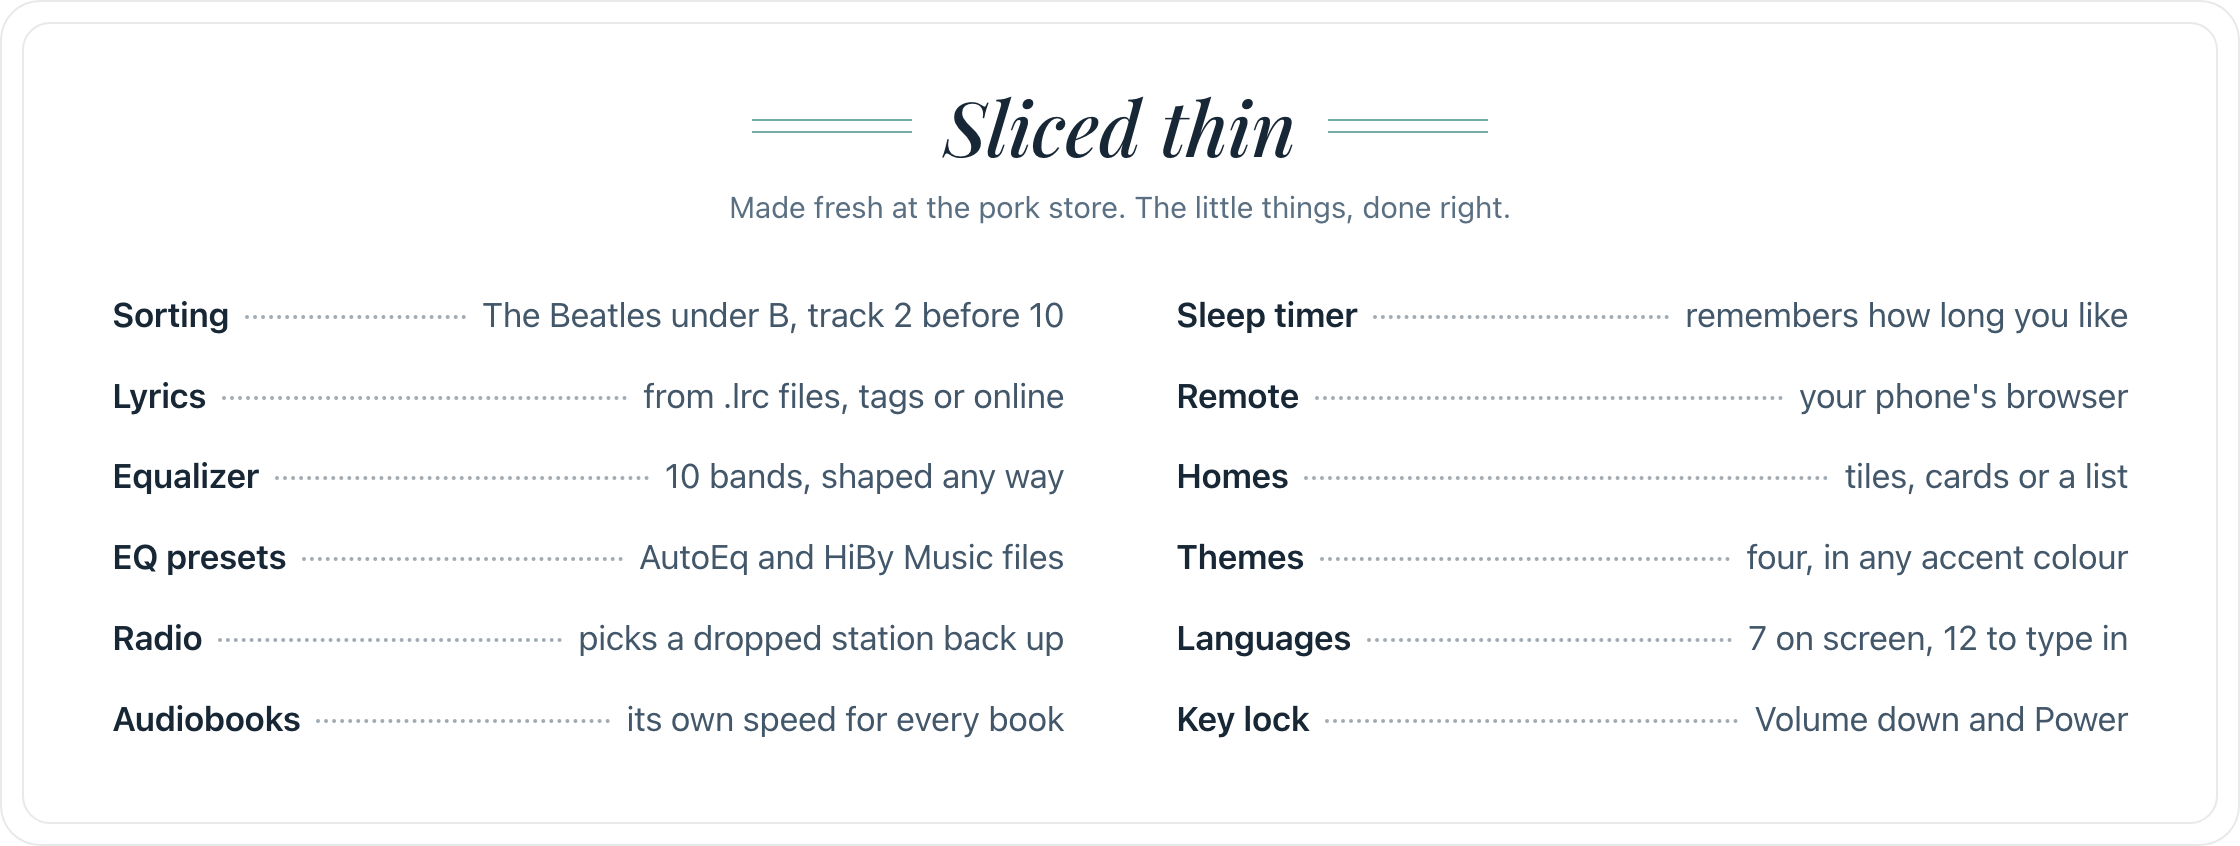
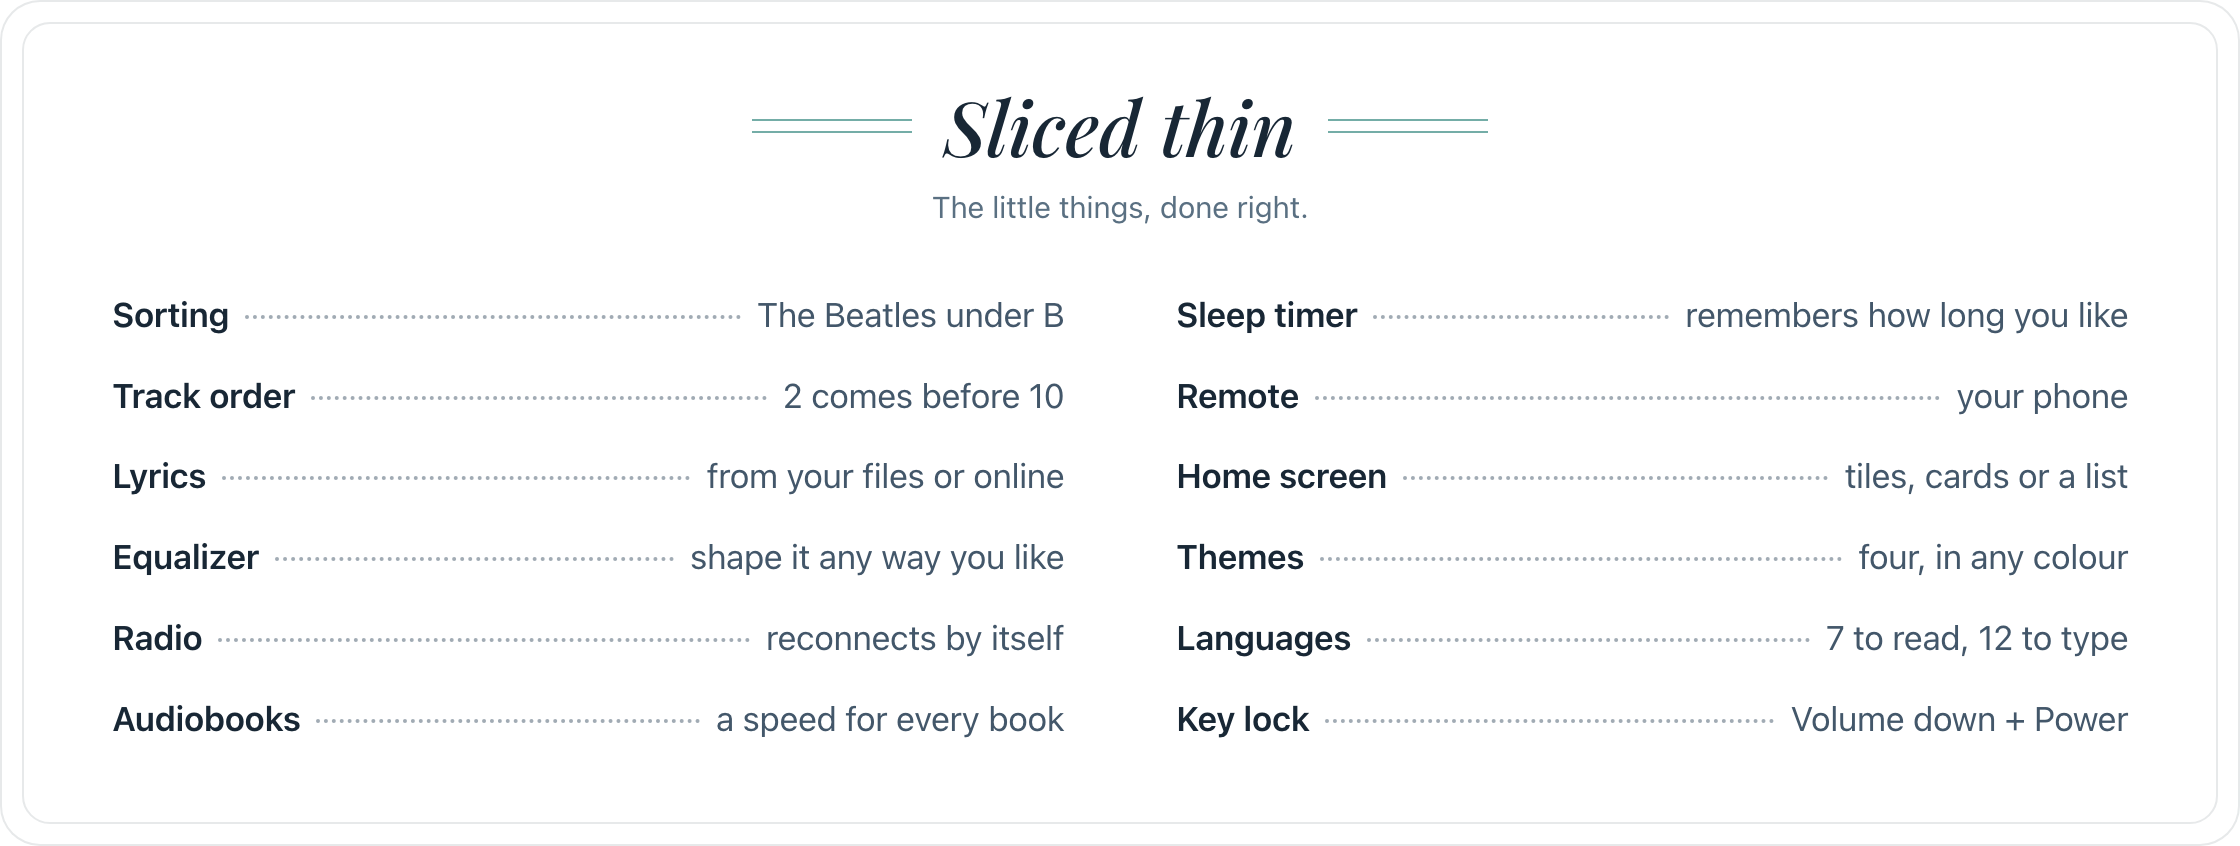
Front page: simpler, friendlier words

diff --git a/README.md b/README.md
@@ -1,7 +1,7 @@
 <a href="https://github.com/BlueDreams666/gabagoolOS/releases/latest">
 <picture>
   <source media="(prefers-color-scheme: dark)" srcset="assets/hero-dark.png">
-  <img src="assets/hero-light.png" width="880" alt="gabagoolOS 1.1, Game on then. A neon sign reads: gabagool? ova haaaa! Your R1 just got made: a faster, nicer way to use your HiBy R1, built on Rockbox, open source, running from your SD card. Beside it, three R1s showing the Music page, the Tiles home and Now Playing.">
+  <img src="assets/hero-light.png" width="880" alt="gabagoolOS 1.1, Game on then. A neon sign reads: gabagool? ova haaaa! Your R1 just got made: fast, pretty new software for your HiBy R1. It runs from your SD card, and it's open source. Beside it, three R1s showing the Music page, the Tiles home and Now Playing.">
 </picture>
 </a>
 
@@ -9,32 +9,30 @@
 [How to install](#no-funny-business) &nbsp;·&nbsp;
 [Questions](#you-got-questions)
 
-We love the HiBy R1. It's tiny, it sounds great, and it was cheap. The software
-it ships with, less so. So we made our own.
+The HiBy R1 is a lovely little music player. Tiny, colourful, sounds great.
+The software? Not so much. So we made new software for it.
 
-GabagoolOS gives the R1 a new interface from top to bottom. Your library stays
-smooth even with tens of thousands of songs, lyrics scroll along with the music,
-and there's a proper equalizer, internet radio, podcasts, audiobooks and e-books.
-It runs from the SD card and never touches your music files. If you ever want the
-stock HiBy player back, it's one button away.
+GabagoolOS is fast, pretty and packed: smooth scrolling even with a huge
+library, lyrics that follow the song, a real equalizer, radio, podcasts,
+audiobooks and more. It lives on your SD card, never touches your music, and
+the original HiBy software is always one button away.
 
 ## made fresh daily
 
-The stuff you use every day, made fast and easy to get to.
+Everything you'd want from a music player, and it's quick.
 
 <picture>
   <source media="(prefers-color-scheme: dark)" srcset="assets/fresh-dark.png">
-  <img src="assets/fresh-light.png" width="880" alt="Ten features. Library: stays smooth with tens of thousands of songs; The Beatles file under B, track 2 comes before track 10, and an A to Z rail shows where you are. Lyrics: lines light up as the song plays, from your own files or downloaded. Sound: a 10-band equalizer, or a ready-made profile for your headphones. Radio: thousands of stations, and podcasts from any feed. Audiobooks: chapters, bookmarks, a speed for each book, Audiobookshelf sync, and an e-book reader. Wireless: Bluetooth, AirPlay, your own Navidrome server, Wi-Fi file transfer, and your phone as a remote. Keyboard: glide typing in 12 languages, and the whole thing in 7. Now Playing: love, shuffle and repeat, the file's quality, the time and battery. Buttons: hold to skip through a song, press twice for a shortcut, a sleep timer one tap away. Your look: Dark, Light, True dark or Zule, a tile, card or list home, any accent colour.">
+  <img src="assets/fresh-light.png" width="880" alt="What it does. Library: Super smooth, even with tens of thousands of songs. And it sorts properly: The Beatles live under B. Lyrics: Words light up as the song plays. Sound: A real equalizer, plus one-tap presets for your headphones. Radio: Thousands of stations, and any podcast you like. Audiobooks: Picks up right where you left off, with chapters and bookmarks. E-books too. Wireless: Bluetooth, AirPlay, Wi-Fi transfers, and your phone as a remote. Keyboard: Swipe to type, in 12 languages. Now playing: Big covers, with love, shuffle and repeat right there. Buttons: Hold to skip through a song. Press twice for a shortcut. Your look: Four themes, three home screens, any colour you like.">
 </picture>
 
 <picture>
   <source media="(prefers-color-scheme: dark)" srcset="assets/menu-dark.png">
-  <img src="assets/menu-light.png" width="880" alt="Sliced thin, a menu board of the little things. Sorting: The Beatles under B, track 2 before 10. Lyrics: from .lrc files, tags or online. Equalizer: 10 bands, shaped any way. EQ presets: AutoEq and HiBy Music files. Radio: picks a dropped station back up. Audiobooks: its own speed for every book. Sleep timer: remembers how long you like. Remote: your phone's browser. Homes: tiles, cards or a list. Themes: four, in any accent colour. Languages: 7 on screen, 12 to type in. Key lock: Volume down and Power.">
+  <img src="assets/menu-light.png" width="880" alt="Sliced thin: the little things, done right. Sorting: The Beatles under B. Track order: 2 comes before 10. Lyrics: from your files or online. Equalizer: shape it any way you like. Radio: reconnects by itself. Audiobooks: a speed for every book. Sleep timer: remembers how long you like. Remote: your phone. Home screen: tiles, cards or a list. Themes: four, in any colour. Languages: 7 to read, 12 to type. Key lock: Volume down + Power.">
 </picture>
 
-There are games too, if you want them: 2048, Sudoku, Snake, chess, a little pet,
-a music quiz, and Doom and Game Boy games (bring your own cartridges). None of it
-runs unless you open it, and you can hide all of it.
+Oh, and there are games. 2048, Sudoku, Snake, chess, a tiny pet, a music quiz,
+even Doom and Game Boy. Not your thing? Hide them with one tap.
 
 ## the house special
 
@@ -42,10 +40,9 @@ runs unless you open it, and you can hide all of it.
 
 ## today's specials
 
-What's new in 1.1. Swipe through songs and it figures out what you like. See
-the whole song as a waveform and jump anywhere in it. Podcasts, e-books, your own
-Navidrome or Audiobookshelf server, Last.fm scrobbling, a control centre you can
-rearrange, and a phone remote that pairs with a code.
+New in 1.1: swipe through songs like a dating app and it learns your taste.
+Plus podcasts, e-books, a waveform you can scrub through, and your phone as a
+remote.
 
 <picture>
   <source media="(prefers-color-scheme: dark)" srcset="assets/case-new-dark.png">
@@ -54,8 +51,7 @@ rearrange, and a phone remote that pairs with a code.
 
 ## from the display case
 
-These are real screens, not mock-ups. Each one is captured at the R1's own
-480 × 800 by the same tool we test with.
+Real screens from the real thing. No mock-ups.
 
 <picture>
   <source media="(prefers-color-scheme: dark)" srcset="assets/case-homes-dark.png">
@@ -74,36 +70,34 @@ These are real screens, not mock-ups. Each one is captured at the R1's own
 
 ## we keep the books
 
-We built it with AI help, so we test it hard. And we use it every day on our own two R1s.
+We test every screen so you don't run into anything weird.
 
 <picture>
   <source media="(prefers-color-scheme: dark)" srcset="assets/books-dark.png">
-  <img src="assets/books-light.png" width="880" alt="How we check it. 32,256 screens checked in every theme, language and text size, with nothing cut off, overlapping, too faint or too small to tap. Monkey tests: thousands of random taps, swipes and button presses on every screen. Memory checks: the whole interface run under a memory checker. EQ maths: the equalizer checked against Rockbox's original filters at four sample rates.">
+  <img src="assets/books-light.png" width="880" alt="How we check it. 32,256: screens checked, so nothing is ever cut off or too small to tap. monkey tests: thousands of random taps and swipes, hunting for crashes before you find them. memory checks: hidden bugs caught on a computer, not on your player. sound checks: the equalizer tested to sound exactly right.">
 </picture>
 
 ## no funny business
 
-Each [release](https://github.com/BlueDreams666/gabagoolOS/releases/latest)
-comes with a full guide that explains every step and every file. Please read it
-before you flash anything. The short version:
+It takes about ten minutes. Each [release](https://github.com/BlueDreams666/gabagoolOS/releases/latest)
+has a step-by-step guide, so give it a read first. The short version:
 
-1. **Get ready.** Charge to at least 50% and back up your card. Download HiBy's
-   official R1 firmware from their help centre too. That's your way back.
-2. **Install the boot menu (just once).** Move any other `.upt` files off the
-   card. Copy `GabagoolOS-1.1-boot-menu.upt` to the top of the card and rename it
-   `r1.upt`. Then, in the HiBy player, go to System > Firmware update > Via SD card.
-3. **Copy GabagoolOS over.** Unzip `GabagoolOS-1.1-HiBy-R1.zip` onto the top of
-   the card (you'll get a hidden `.rockbox` folder and a `Games` folder), then restart.
+1. **Get ready.** Charge your R1, back up your card, and download HiBy's own
+   firmware from their website. That's your safety net.
+2. **Add the boot menu (once).** Copy `GabagoolOS-1.1-boot-menu.upt` to your
+   card, rename it `r1.upt`, then on the R1 go to
+   System > Firmware update > Via SD card.
+3. **Add GabagoolOS.** Unzip `GabagoolOS-1.1-HiBy-R1.zip` onto your card and
+   restart.
 
-From then on the R1 starts straight into GabagoolOS. To use the HiBy player
-instead, **hold Volume Down while you turn it on**.
+That's it! Your R1 now starts in GabagoolOS. Want the HiBy software instead?
+**Hold Volume Down while you turn it on.**
 
 ### changed your mind? forget about it
 
-1. Copy HiBy's official 2.0 or 1.6 firmware to the top of the card as `r1.upt`.
-2. Hold Volume Down while you turn the R1 on, open the HiBy player, and go to
-   System > Firmware update > Via SD card.
-3. Delete the `.rockbox` folder if you want the space back. Your music stays put.
+No hard feelings. Copy HiBy's own firmware to your card as `r1.upt`, hold
+Volume Down while you turn the R1 on, and run the update from the HiBy menu.
+Delete the `.rockbox` folder if you want the space back. Your music stays put.
 
 ## you got questions?
 
@@ -111,30 +105,23 @@ instead, **hold Volume Down while you turn it on**.
 <summary><b>Is it Rockbox?</b></summary>
 <br>
 
-Underneath, yes. [Rockbox](https://www.rockbox.org) has been running on music
-players for over twenty years, and it still does the playback, the file formats,
-the sound processing and the library. GabagoolOS is the touch interface on top,
-plus a lot of R1-specific work. We started from WillNHT's R1 port and bahusoid's
-Audiobook Mod. Same licence as Rockbox: GPL v2 or later.
+Under the hood, yes! [Rockbox](https://www.rockbox.org) has powered music
+players for over twenty years and handles the playback. GabagoolOS is the
+brand new touch interface on top, made for the R1.
 </details>
 
 <details>
 <summary><b>Was it made with AI?</b></summary>
 <br>
 
-Yes, a lot of it. We decided what to build, reviewed it, and tested it on our
-own R1s every day. We'd rather tell you than have you wonder. What matters is
-whether it works, so here's how we check:
+Yes, a lot of it. We planned it, checked it and use it every day on our own
+R1s. We'd rather just tell you. Here's how we make sure it works:
 
-- **Every screen, every way.** A tool opens all 32,256 combinations of screen,
-  theme, language and text size and flags anything cut off, overlapping, too
-  faint or too small to tap. Right now it finds nothing.
-- **Monkey tests.** Thousands of random taps, swipes and button presses on every
-  screen, looking for crashes and freezes.
-- **Memory checks.** The whole interface runs under a memory checker
-  (AddressSanitizer), so memory bugs get caught on a Mac, not on your player.
-- **EQ maths.** The equalizer is checked against Rockbox's original filters at
-  four sample rates.
+- **Every screen, checked.** All 32,256 combinations of screen, theme,
+  language and text size, so nothing's cut off or too small to tap.
+- **Monkey tests.** Thousands of random taps and swipes, hunting for crashes.
+- **Memory checks.** Hidden bugs get caught on a computer, not on your player.
+- **Sound checks.** The equalizer is tested to sound exactly right.
 
 All the code will be here for anyone to read.
 </details>
@@ -143,90 +130,68 @@ All the code will be here for anyone to read.
 <summary><b>Why "gabagool"?</b></summary>
 <br>
 
-It's capicola, the way they say it in *The Sopranos*. Tap the house special
-tile on the Tiles home. Ova haaaa!
+It's how they say "capicola" in *The Sopranos*. Find the house special tile on
+the Tiles home and give it a tap. Ova haaaa!
 </details>
 
 <details>
-<summary><b>Is it safe to install?</b></summary>
+<summary><b>Is it safe?</b></summary>
 <br>
 
-As safe as flashing firmware gets. GabagoolOS lives on the SD card in a
-`.rockbox` folder and never writes to the R1's internal memory. The boot menu is
-HiBy's own 2.0 update with three small things added: the menu itself, a script
-that mounts the card, and a boot logo. The kernel inside is HiBy's, byte for
-byte, there's no bootloader or recovery image in it, and HiBy's own updater
-installs it.
-
-A few more things we were careful about. While the R1 is plugged into a computer,
-GabagoolOS doesn't write to the card at all. Updates on the player only install
-if they're signed by us. Still, flashing always carries some risk, so keep HiBy's
-official file somewhere safe.
+As safe as these things get. GabagoolOS lives on your SD card and doesn't
+mess with the R1's built-in software. The boot menu is HiBy's own update with
+a small menu added, installed by HiBy's own updater. And you can always go
+back. Just keep HiBy's firmware file somewhere safe, like with any update.
 </details>
 
 <details>
-<summary><b>Which players does it support?</b></summary>
+<summary><b>Which players does it work on?</b></summary>
 <br>
 
-Just the HiBy R1. It's made for the R1's screen, buttons and hardware. Newer
-R1s have a different wireless chip (the AIC8800). They should work through
-HiBy 2.0's own drivers, but we haven't had one to try yet. If you have one,
-please tell us how it goes. Everything apart from Wi-Fi and Bluetooth works the
-same either way.
+Just the HiBy R1 for now. Got one of the newest R1s? Some have a different
+Wi-Fi chip we haven't tried yet. Everything should work, but please tell us
+how it goes!
 </details>
 
 <details>
 <summary><b>Does it phone home?</b></summary>
 <br>
 
-No. It only goes online when you turn on Wi-Fi and use something that needs it:
-lyrics (LRCLIB), covers (MusicBrainz and the Cover Art Archive), internet radio
-(radio-browser, and ip-api.com for "near you"), podcasts (Apple's directory and
-the feeds you add), AutoEq profiles (GitHub), scrobbling (Last.fm or
-ListenBrainz, your own account), your own Navidrome or Audiobookshelf server,
-and the clock (NTP). The phone remote only answers phones you've paired.
+Nope. No tracking, no accounts, no ads. It only goes online when you turn on
+Wi-Fi and use something that needs the internet, like lyrics, radio, podcasts
+or album covers. The full list is in [NOTICE.md](NOTICE.md).
 </details>
 
 <details>
-<summary><b>Something went wrong. What should I send?</b></summary>
+<summary><b>Something broke. Now what?</b></summary>
 <br>
 
-Sorry about that! [Open an issue](https://github.com/BlueDreams666/gabagoolOS/issues/new/choose)
-and tell us which HiBy firmware you're on (1.6 or 2.0, it's in the boot menu)
-and which GabagoolOS version you have. Attach `.rockbox/sloppy/sloppy.log` from
-the card too. It tells us what the player was doing.
+Sorry about that! [Tell us here](https://github.com/BlueDreams666/gabagoolOS/issues/new/choose).
+It helps a lot if you attach the log file from your card:
+`.rockbox/sloppy/sloppy.log`.
 </details>
 
 ## the family
 
-None of this would exist without these people and projects:
+Big thanks to the people and projects this is built on:
 
-- **[Rockbox](https://www.rockbox.org)** (GPL v2+): playback, codecs, DSP, the
-  database, plugins, Doom and the Game Boy core.
-- **[Rockbox for the HiBy R1](https://github.com/WillNHT/rockbox-hiby-r1)** by
-  WillNHT, built on **[bahusoid's Rockbox Audiobook Mod](https://github.com/bahusoid/rockbox)**:
-  the R1 port, the audiobook library and many device fixes.
-- **[LVGL](https://lvgl.io)** (MIT), which draws the interface, with lodepng
-  (zlib) and stb_image. For internet radio, **libmad** and **FAAD2** (GPL), and
-  Rockbox's copies of **Tremor** and **libopus** (BSD) and its FLAC decoder
-  (LGPL).
-- Fonts under the SIL Open Font License: **Source Sans 3**, **Shrikhand**,
-  **Noto Sans** Hebrew, Arabic, SC, KR and Thai, and **Montserrat** for symbols.
-- **LRCLIB** for lyrics, **MusicBrainz** and the **Cover Art Archive** for
-  covers, **radio-browser** for stations, **AutoEq** by Jaakko Pasanen for
-  headphone profiles, **Last.fm** and **ListenBrainz**, and the **Unicode
-  Unihan** database for the pinyin keyboard.
+- **[Rockbox](https://www.rockbox.org)**, which plays your music
+- **[WillNHT's R1 port](https://github.com/WillNHT/rockbox-hiby-r1)** and
+  **[bahusoid's Audiobook Mod](https://github.com/bahusoid/rockbox)**, where
+  GabagoolOS started
+- **[LVGL](https://lvgl.io)**, which draws everything you see
+- **LRCLIB** for lyrics, **MusicBrainz** for covers, **radio-browser** for
+  stations and **AutoEq** for headphone presets
 
-Everything, with licences, is in [NOTICE.md](NOTICE.md).
+The full list, with licences, is in [NOTICE.md](NOTICE.md).
 
 ## licence
 
-GabagoolOS is free software under the GNU General Public License, version 2 or
-(at your option) any later version, like Rockbox. See [LICENSE](LICENSE).
+Open source under the GPL (v2 or later), just like Rockbox. See [LICENSE](LICENSE).
 
 <br>
 
 <p align="center">
-  <sub>GabagoolOS is a fan project. It is not made or supported by HiBy, and has nothing to do with HBO or <i>The Sopranos</i>.<br>
-  Flashing firmware is at your own risk; keep HiBy's official file to hand.</sub>
+  <sub>Made by fans. Not made by or affiliated with HiBy, HBO or <i>The Sopranos</i>.<br>
+  Installing custom firmware is at your own risk.</sub>
 </p>
